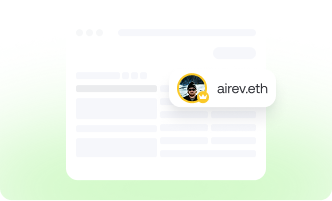
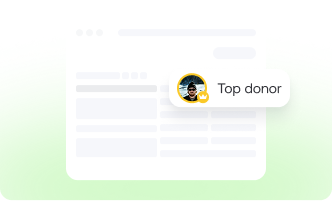
refactor: Update donate options copy text, images and fix styles

Changed region(s): [[0.6325, 0.3881, 0.8434, 0.4776], [0.8133, 0.5075, 0.8434, 0.5373]]

diff --git a/apps/main-landing/src/app/creators/donate/donate-options-modal.tsx b/apps/main-landing/src/app/creators/donate/donate-options-modal.tsx
@@ -17,14 +17,16 @@ const cardRadioItems: CardRadioItem[] = [
   {
     value: 'guest',
     title: 'Donate as a guest',
-    description: 'Quick and anonymous donation without creating an account.',
+    description:
+      'Support quietly without logging in and creating a public profile.',
     image: GUEST_CARD.src,
     imageAlt: 'Guest donation',
   },
   {
     value: 'account',
     title: 'Get recognized',
-    description: 'Create an account to track donations and get recognition.',
+    description:
+      'Join the leaderboard, earn status, and track impact with a profile.',
     image: ACCOUNT_CARD.src,
     imageAlt: 'Account donation',
   },

diff --git a/packages/ui/src/components/radio-group/idriss-card-radio-group.tsx b/packages/ui/src/components/radio-group/idriss-card-radio-group.tsx
@@ -52,7 +52,9 @@ export const IdrissCardRadioGroup = ({
               <div className="flex flex-col gap-1 p-4">
                 <div className="flex items-center justify-between">
                   <CardHeader>
-                    <h4 className="text-heading4">{item.title}</h4>
+                    <h4 className="text-heading4 text-neutral-900">
+                      {item.title}
+                    </h4>
                   </CardHeader>
                   <RadixRadioGroup.Item
                     className="size-[20px] cursor-default rounded-full border-2 border-neutral-400 data-[state=checked]:border-mint-500"
